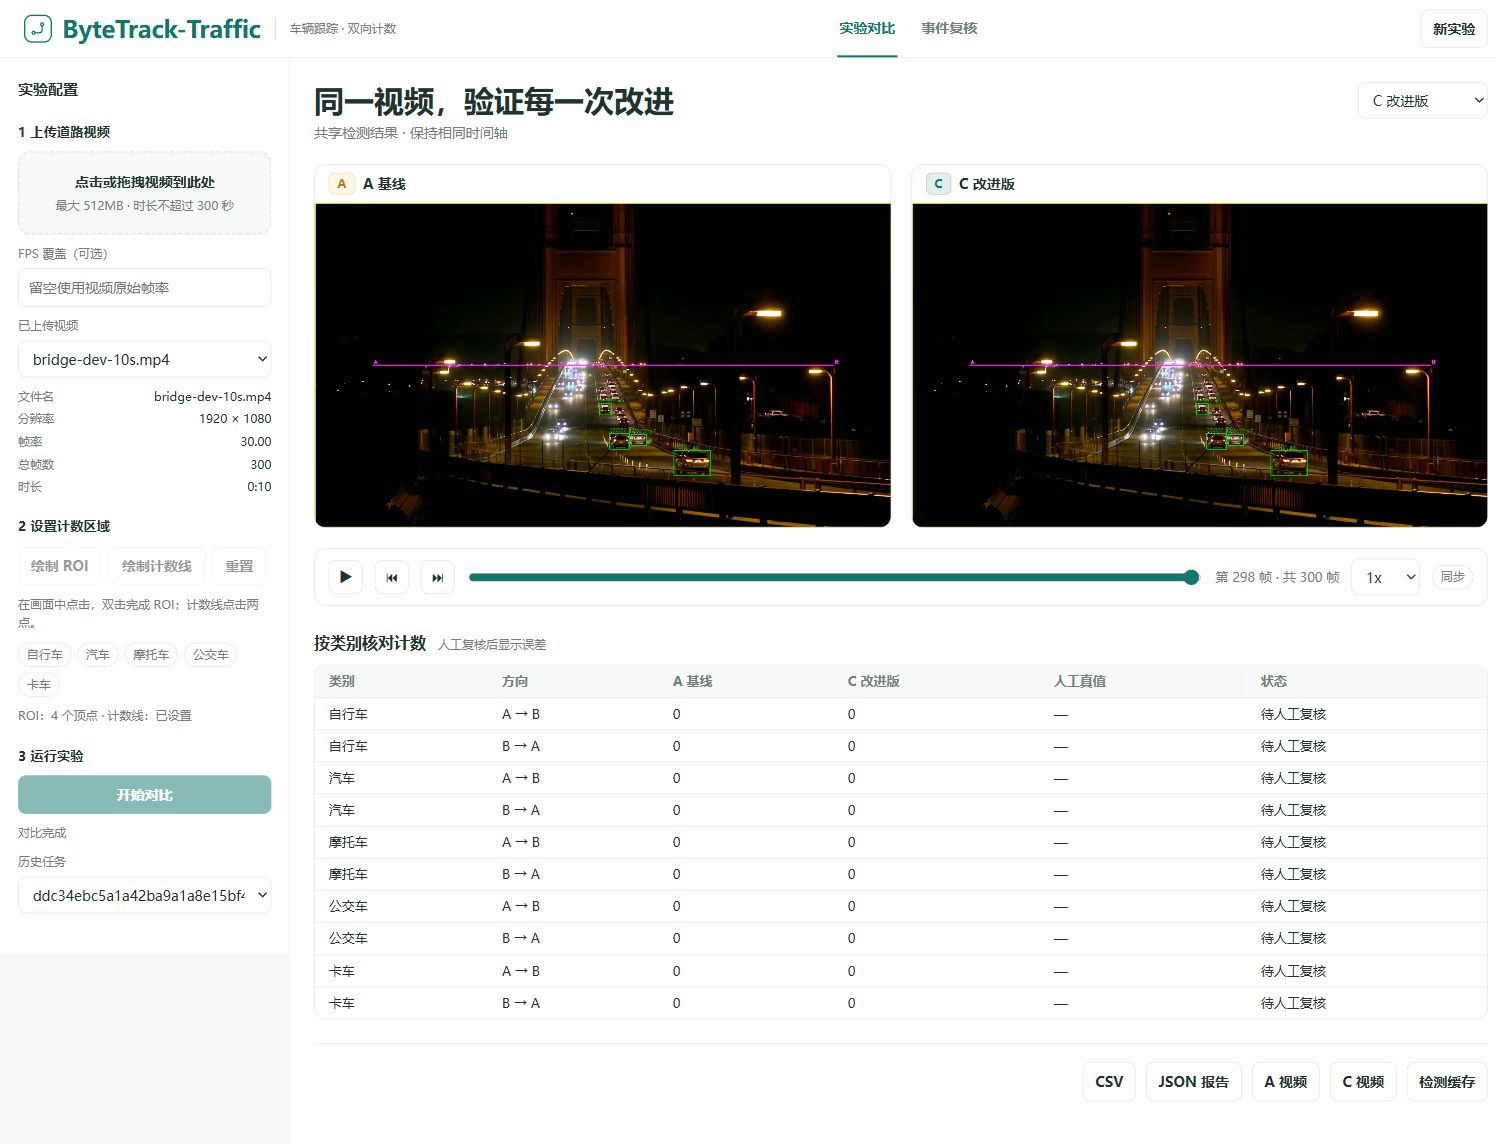
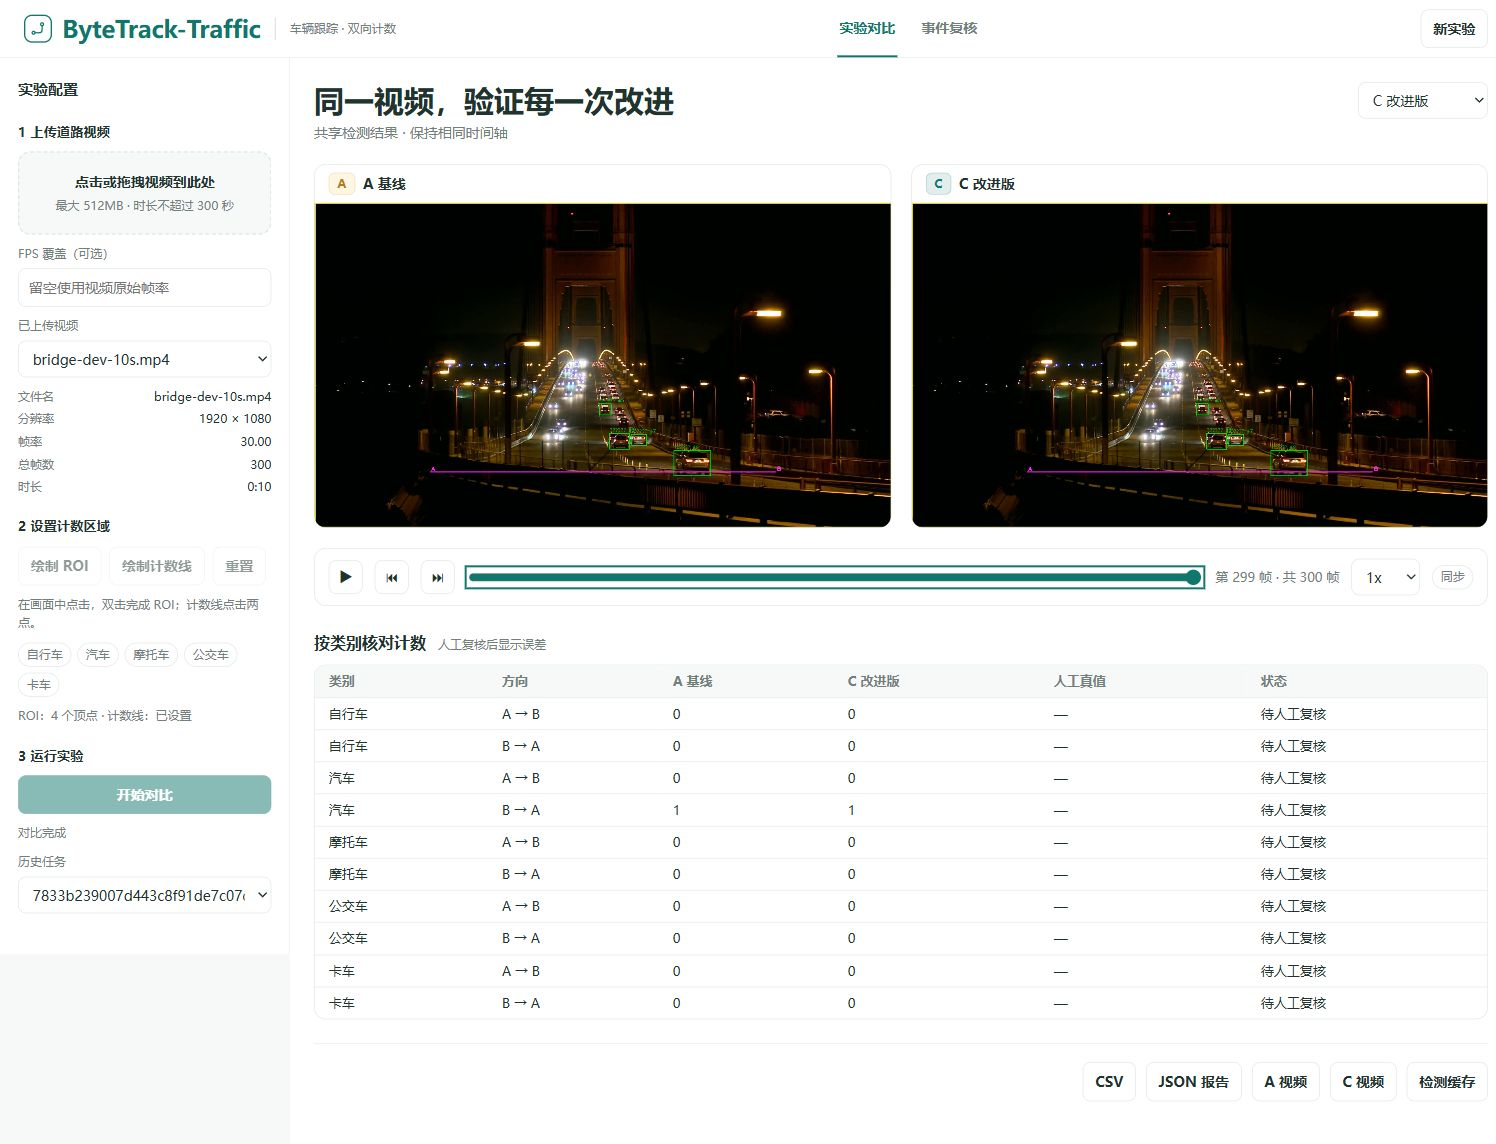
docs: record passing Linux CI and measured crossing example

diff --git a/docs/VALIDATION.md b/docs/VALIDATION.md
@@ -1,5 +1,7 @@
 # 验证记录
 
+Linux CPU 自动测试已通过：[运行记录](https://github.com/ShingStars/ByteTrack-Traffic/actions/runs/39106005266)（代码提交 6711528）。
+
 ## 环境
 
 - 日期：2026-10-18
@@ -22,6 +24,10 @@
 - API：18
 - 处理器：10
 
+## 开发视频计数检查
+
+在原始冒烟测试之后，使用同一桥夜景原始 10 秒视频与配置 `[(.2,.83),(.8,.83)]` 全 ROI 运行开发演示，作业 7833b239007d443c8f91de7c07dc64d3。实际事件为 A/B/C 各 1 辆车 B_to_A，位于第 158 帧 / 时间 5.2666667，其余类别与方向均为 0，人工真值未复核（None）。这验证了非零计数器可正常工作，但不证明相对基线的改进或准确率。几何参数在开发视频上选定，非留出集；冻结模型的留出集仍无评估结论。
+
 ## GPU 作业实测
 
 - 最新作业：300 帧，1920x1080，fps30
@@ -43,10 +49,10 @@
 - 历史恢复视频与几何。
 - 时间轴末端钳制 299/300。
 - B 切换仍可播放步进；实际 A=B 时间 9.933333，readyState 4。
-- 下一步首个 A 为 C.033333。
+- A/C 同步步进后时间均为 0.033333 秒。
 - 同步状态正确。
 - CSV 浏览器下载实际 counts.csv，解析 30 行，覆盖 3 模式 * 5 类 * 2 方向。
-- 源码审查步骤 1 帧字段自动为 1。
+- 原视频逐帧复核时，当前帧与标注输入均自动显示为 1。
 - 临时未保存 QA 事件存储于帧 1，保存前移除。
 - 最终真值：空，reviewed=false，绑定 config/source/job，无虚假人工标注或准确率。
 - 空草稿保存可用。
@@ -82,8 +88,8 @@
 - 当前为工程预览版，非 v0.1.0 正式发布。
 - 冒烟测试仅计数为 0，无准确率证明，5 类覆盖缺失。
 - 正式留出集评估待完成：5 类各 5 个清晰穿越，独立摄像头/开发数据，运行前冻结参数，人工用户最终审查。
-- Linux CPU 工作流已提供但尚未实际运行，推送前状态为 pending。
-- Linux CI 待执行。
+- Linux CPU 自动测试已通过：[运行记录](https://github.com/ShingStars/ByteTrack-Traffic/actions/runs/39106005266)（代码提交 6711528）。
+
 - 活动流程测试覆盖上传/运行/同步/草稿/导出；完整 5 类评估未完成。
 - 超过 300 秒的拒绝与 API 测试已覆盖，但超大 4K 剪辑性能未测量。
 - WebM 元数据可能需要 FPS 覆盖与先验归一化，属已知清单项。

diff --git a/docs/QA.md b/docs/QA.md
@@ -19,7 +19,7 @@
 
 ## 变更
 
-- 修复缺失的 getHealth 端点，消除由此产生的 404。
+- 补全复核页的 getHealth 接口调用，消除由此产生的 404。
 - 验证上传、运行、同步、草稿保存与 CSV 导出完整流程。
 - 确认时间轴末端钳制、模式切换与步进同步行为。
 - 确认空草稿保存可用，且未产生虚假人工标注或准确率声明。
@@ -44,11 +44,11 @@
 | 时间轴末端钳制 | 299/300 |
 | B 切换步进 | 仍可播放步进 |
 | A=B 时间 | 9.933333，readyState 4 |
-| 下一步首个 A | C.033333 |
+| A/C 下一帧 | 均为0.033333秒 |
 | 同步状态 | 正确 |
 | CSV 浏览器下载 | 实际 counts.csv，解析 30 行 |
 | CSV 覆盖 | 3 模式 * 5 类 * 2 方向 |
-| 源码审查步骤 1 帧字段 | 自动为 1 |
+| 原视频逐帧复核 | 当前帧和标注输入均为1 |
 | 临时未保存 QA 事件 | 帧 1 存储后保存前移除 |
 | 最终真值 | 空，reviewed=false，绑定 config/source/job |
 | 空草稿保存 | 可用 |
@@ -92,8 +92,7 @@
 ## 剩余风险
 
 - 当前活动流程测试覆盖上传/运行/同步/草稿/导出；完整 5 类评估未完成。
-- Linux CPU 工作流已提供但尚未实际运行，推送前状态为 pending。
-- Linux CI 待执行。
+- Linux CPU 自动测试已通过：[运行记录](https://github.com/ShingStars/ByteTrack-Traffic/actions/runs/39106005266)（代码提交 6711528）。
 - 超过 300 秒的拒绝与 API 测试已覆盖，但超大 4K 剪辑性能未测量。
 - WebM 元数据可能需要 FPS 覆盖与先验归一化，属已知清单项。
 - 正式留出集评估待完成：5 类各 5 个清晰穿越，独立摄像头/开发数据，运行前冻结参数，人工用户最终审查。

diff --git a/README.md b/README.md
@@ -4,6 +4,10 @@
 
 项目目标不是训练新模型，而是把 ByteTrack 的多目标跟踪能力落到可复现的道路视频分析流程中：上传视频、绘制 ROI 与计数线、运行 A/B/C 三种处理模式、查看跟踪与计数结果、导出 CSV/JSON，并支持人工复核。
 
+![桌面端对比视图](docs/images/comparison-desktop.png)
+
+道路视频素材：Editor，CC BY 3.0，[Commons 来源](https://commons.wikimedia.org/wiki/File:Traffic_on_bridge_at_night.webm)，已做 UI 与标注改动。
+
 ## 适用场景
 
 - 固定机位道路视频的离线分析
@@ -120,7 +124,7 @@ python -m pytest tests -q
 
 最近一次验证：2026-10-18，Windows、Python 3.12、PyTorch 2.5.1 + cu121、RTX 3070 Laptop 8GB，88 项测试全部通过。测试分布：核心 40、视频 6、评估 14、API 18、处理器 10。存在一条 Starlette/AnyIO 弃用警告，不影响功能测试。
 
-Linux CI 已提供 Ubuntu CPU 工作流，但执行结果尚未在 GitHub 实际运行中验证。
+Linux CI 已通过：[运行记录](https://github.com/ShingStars/ByteTrack-Traffic/actions/runs/39106005266)（提交 6711528）。
 
 ## 真实 GPU Web 任务记录
 

diff --git a/README.en.md b/README.en.md
@@ -120,7 +120,7 @@ python -m pytest tests -q
 
 Latest verification: 2026-10-18, Windows, Python 3.12, PyTorch 2.5.1 + cu121, RTX 3070 Laptop 8GB, all 88 tests passed. Distribution: core 40, video 6, eval 14, API 18, processor 10. One Starlette/AnyIO deprecation warning, no functional test failure.
 
-A Linux CI Ubuntu CPU workflow is present, but execution has not yet been verified by actual GitHub results.
+Linux CI passed: [run](https://github.com/ShingStars/ByteTrack-Traffic/actions/runs/39106005266) (commit 6711528).
 
 ## Real GPU Web Job
 
